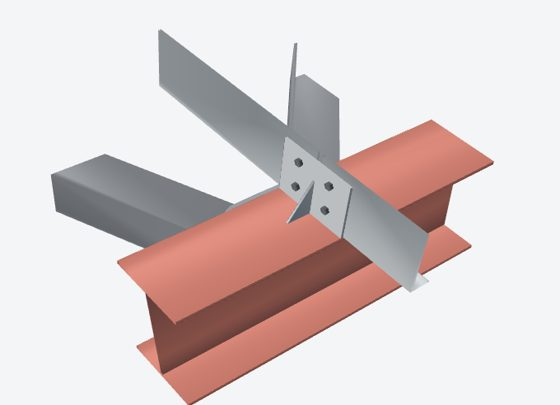
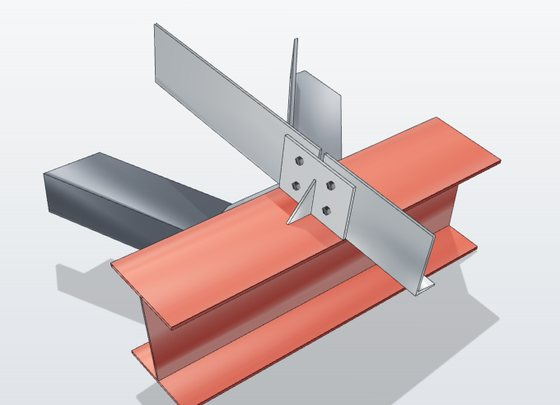
Connection explorer: steel finish, edge lines, shadows, new thumbnails

diff --git a/projects/steel-warehouse.html b/projects/steel-warehouse.html
@@ -38,7 +38,7 @@
 .conns{display:grid;grid-template-columns:repeat(auto-fill,minmax(200px,1fr));gap:12px;margin:12px 0 6px}
 .conn{display:flex;flex-direction:column;align-items:stretch;text-align:left;background:var(--card);border:1px solid var(--line);border-radius:8px;padding:8px 8px 10px;cursor:pointer;font:inherit;color:var(--ink);transition:border-color .15s,transform .15s}
 .conn:hover,.conn:focus-visible{border-color:var(--accent);transform:translateY(-2px)}
-.conn img{width:100%;height:auto;border-radius:5px;background:#f4f5f6}
+.conn img{width:100%;height:auto;border-radius:5px;background:#eceff2}
 .conn .ct{font-weight:600;font-size:.9rem;margin-top:8px}
 .conn .cd{font-size:.78rem;color:var(--ink-2)}
 .conn .cr{font:500 .74rem "IBM Plex Mono",monospace;color:var(--blue);margin-top:4px}
@@ -48,7 +48,7 @@
 .cv-head h3{margin:0;font-size:1.05rem}
 .cv-x{border:0;background:none;font-size:1.6rem;line-height:1;cursor:pointer;color:var(--ink-2)}
 .cv-body{display:grid;grid-template-columns:1.7fr 1fr;gap:0}
-.cv-stage{position:relative;aspect-ratio:4/3;background:#f4f5f6;touch-action:none}
+.cv-stage{position:relative;aspect-ratio:4/3;background:#eceff2;touch-action:none}
 .cv-stage canvas{position:absolute;inset:0;width:100%;height:100%;display:block;cursor:grab}
 .cv-msg{position:absolute;left:12px;bottom:10px;font:500 .76rem "IBM Plex Mono",monospace;color:#4a5866;background:rgba(255,255,255,.85);padding:4px 8px;border-radius:4px}
 .cv-info{padding:16px 18px;font-size:.88rem;overflow:auto}
@@ -126,16 +126,16 @@
       <ul><li>The shear lugs at the side columns now run across the frame, so they bear against the concrete in the direction of the 84 kN frame shear.</li><li>The splice end plates stand 10 mm proud of the flush flange, so the sloped flange is fully cut and welded to the plate.</li><li>The purlin cleats on the two gable frames have 4 bolts instead of 2. Two columns of bolts let the joint resist rotation on its own.</li><li>The pedestal ties continue down through the footing to just above the bottom mesh, holding the starter bars in place.</li></ul>
       <p class="hint">Select a connection to open it in 3D. Drag to rotate, scroll or pinch to zoom.</p>
       <div class="conns" id="conns">
-        <button type="button" class="conn" data-k="knee"><img src="img/conn/knee.jpg" alt="" width="560" height="405" loading="lazy"><span class="ct">Eave knee</span><span class="cd">Bolted end plate, 12 × M24</span><span class="cr">Max ratio 0.80</span></button>
-        <button type="button" class="conn" data-k="ridge"><img src="img/conn/ridge.jpg" alt="" width="560" height="405" loading="lazy"><span class="ct">Ridge and column cap</span><span class="cd">Extended end plates, 10 × M30</span><span class="cr">Max ratio 0.68</span></button>
-        <button type="button" class="conn" data-k="splice607"><img src="img/conn/splice607.jpg" alt="" width="560" height="405" loading="lazy"><span class="ct">Rafter splice at 6.07 m</span><span class="cd">Extended end plates, 8 × M24</span><span class="cr">Max ratio 0.36</span></button>
-        <button type="button" class="conn" data-k="splice1607"><img src="img/conn/splice1607.jpg" alt="" width="560" height="405" loading="lazy"><span class="ct">Rafter splice at 16.07 m</span><span class="cd">Extended end plates, 8 × M24</span><span class="cr">Max ratio 0.24</span></button>
-        <button type="button" class="conn" data-k="base_side"><img src="img/conn/base_side.jpg" alt="" width="560" height="405" loading="lazy"><span class="ct">Side column base</span><span class="cd">Shear lug across the frame</span><span class="cr">Max ratio 0.75</span></button>
-        <button type="button" class="conn" data-k="base_central"><img src="img/conn/base_central.jpg" alt="" width="560" height="405" loading="lazy"><span class="ct">Central column base</span><span class="cd">4 anchor rods, no uplift</span><span class="cr">Max ratio 0.10</span></button>
-        <button type="button" class="conn" data-k="base_gable"><img src="img/conn/base_gable.jpg" alt="" width="560" height="405" loading="lazy"><span class="ct">Gable column base</span><span class="cd">Shear on the anchor rods</span><span class="cr">Max ratio 0.65</span></button>
-        <button type="button" class="conn" data-k="purlin"><img src="img/conn/purlin.jpg" alt="" width="560" height="405" loading="lazy"><span class="ct">Purlin cleat, interior</span><span class="cd">Stiffened cleat, 2 × M16</span><span class="cr">Max ratio 0.41</span></button>
-        <button type="button" class="conn" data-k="purlin_gable"><img src="img/conn/purlin_gable.jpg" alt="" width="560" height="405" loading="lazy"><span class="ct">Purlin cleat, gable end</span><span class="cd">Stiffened cleat, 4 × M16</span><span class="cr">Max ratio 0.39</span></button>
-        <button type="button" class="conn" data-k="bracing"><img src="img/conn/bracing.jpg" alt="" width="560" height="405" loading="lazy"><span class="ct">Roof bracing</span><span class="cd">10 mm gusset, 2 × M20</span><span class="cr">Max ratio 0.10</span></button>
+        <button type="button" class="conn" data-k="knee"><img src="img/conn/knee.jpg?v=2" alt="" width="560" height="405" loading="lazy"><span class="ct">Eave knee</span><span class="cd">Bolted end plate, 12 × M24</span><span class="cr">Max ratio 0.80</span></button>
+        <button type="button" class="conn" data-k="ridge"><img src="img/conn/ridge.jpg?v=2" alt="" width="560" height="405" loading="lazy"><span class="ct">Ridge and column cap</span><span class="cd">Extended end plates, 10 × M30</span><span class="cr">Max ratio 0.68</span></button>
+        <button type="button" class="conn" data-k="splice607"><img src="img/conn/splice607.jpg?v=2" alt="" width="560" height="405" loading="lazy"><span class="ct">Rafter splice at 6.07 m</span><span class="cd">Extended end plates, 8 × M24</span><span class="cr">Max ratio 0.36</span></button>
+        <button type="button" class="conn" data-k="splice1607"><img src="img/conn/splice1607.jpg?v=2" alt="" width="560" height="405" loading="lazy"><span class="ct">Rafter splice at 16.07 m</span><span class="cd">Extended end plates, 8 × M24</span><span class="cr">Max ratio 0.24</span></button>
+        <button type="button" class="conn" data-k="base_side"><img src="img/conn/base_side.jpg?v=2" alt="" width="560" height="405" loading="lazy"><span class="ct">Side column base</span><span class="cd">Shear lug across the frame</span><span class="cr">Max ratio 0.75</span></button>
+        <button type="button" class="conn" data-k="base_central"><img src="img/conn/base_central.jpg?v=2" alt="" width="560" height="405" loading="lazy"><span class="ct">Central column base</span><span class="cd">4 anchor rods, no uplift</span><span class="cr">Max ratio 0.10</span></button>
+        <button type="button" class="conn" data-k="base_gable"><img src="img/conn/base_gable.jpg?v=2" alt="" width="560" height="405" loading="lazy"><span class="ct">Gable column base</span><span class="cd">Shear on the anchor rods</span><span class="cr">Max ratio 0.65</span></button>
+        <button type="button" class="conn" data-k="purlin"><img src="img/conn/purlin.jpg?v=2" alt="" width="560" height="405" loading="lazy"><span class="ct">Purlin cleat, interior</span><span class="cd">Stiffened cleat, 2 × M16</span><span class="cr">Max ratio 0.41</span></button>
+        <button type="button" class="conn" data-k="purlin_gable"><img src="img/conn/purlin_gable.jpg?v=2" alt="" width="560" height="405" loading="lazy"><span class="ct">Purlin cleat, gable end</span><span class="cd">Stiffened cleat, 4 × M16</span><span class="cr">Max ratio 0.39</span></button>
+        <button type="button" class="conn" data-k="bracing"><img src="img/conn/bracing.jpg?v=2" alt="" width="560" height="405" loading="lazy"><span class="ct">Roof bracing</span><span class="cd">10 mm gusset, 2 × M20</span><span class="cr">Max ratio 0.10</span></button>
       </div>
       <dialog class="cview" id="cview" aria-labelledby="cv-title">
         <div class="cv-head"><h3 id="cv-title"></h3><button type="button" class="cv-x" id="cv-close" aria-label="Close">×</button></div>
@@ -238,12 +238,25 @@ let T=null,R,S,cam,ctl,cur,idx=0,raf=0;
 async function init(){if(T)return;
   const THREE=await import('three');const {OrbitControls}=await import('three/addons/controls/OrbitControls.js');
   const {GLTFLoader}=await import('three/addons/loaders/GLTFLoader.js');const {MeshoptDecoder}=await import('three/addons/libs/meshopt_decoder.module.js');
-  T={THREE,GLTFLoader,MeshoptDecoder};
-  R=new THREE.WebGLRenderer({antialias:true});R.setPixelRatio(Math.min(devicePixelRatio,2));R.outputColorSpace=THREE.SRGBColorSpace;stage.prepend(R.domElement);
-  S=new THREE.Scene();S.background=new THREE.Color(0xf4f5f6);S.add(new THREE.HemisphereLight(0xffffff,0x8899aa,1.5));
-  const d=new THREE.DirectionalLight(0xffffff,1.7);d.position.set(-3,6,4);S.add(d);const d2=new THREE.DirectionalLight(0xffffff,.6);d2.position.set(4,2,-3);S.add(d2);
-  cam=new THREE.PerspectiveCamera(30,1,0.01,100);ctl=new OrbitControls(cam,R.domElement);ctl.enableDamping=true;ctl.dampingFactor=.08;
+  const {RoomEnvironment}=await import('three/addons/environments/RoomEnvironment.js');
+  R=new THREE.WebGLRenderer({antialias:true});R.setPixelRatio(Math.min(devicePixelRatio,2));R.outputColorSpace=THREE.SRGBColorSpace;
+  R.toneMapping=THREE.ACESFilmicToneMapping;R.shadowMap.enabled=true;R.shadowMap.type=THREE.PCFSoftShadowMap;stage.prepend(R.domElement);
+  S=new THREE.Scene();
+  const bg=document.createElement('canvas');bg.width=2;bg.height=256;const bx=bg.getContext('2d'),gr=bx.createLinearGradient(0,0,0,256);gr.addColorStop(0,'#f7f8f9');gr.addColorStop(1,'#dfe3e7');bx.fillStyle=gr;bx.fillRect(0,0,2,256);
+  const bt=new THREE.CanvasTexture(bg);bt.colorSpace=THREE.SRGBColorSpace;S.background=bt;
+  S.environment=new THREE.PMREMGenerator(R).fromScene(new RoomEnvironment(),0.04).texture;
+  const key=new THREE.DirectionalLight(0xffffff,2.2);key.castShadow=true;key.shadow.mapSize.set(2048,2048);key.shadow.radius=6;key.shadow.bias=-0.0005;S.add(key,key.target);
+  S.add(new THREE.HemisphereLight(0xffffff,0xb0b8c0,0.35));
+  const ground=new THREE.Mesh(new THREE.PlaneGeometry(1,1),new THREE.ShadowMaterial({opacity:0.18}));ground.rotation.x=-Math.PI/2;ground.receiveShadow=true;S.add(ground);
+  cam=new THREE.PerspectiveCamera(30,1,0.01,100);ctl=new OrbitControls(cam,R.domElement);ctl.enableDamping=true;ctl.dampingFactor=.08;ctl.autoRotateSpeed=1.2;
+  ctl.addEventListener('start',()=>{ctl.autoRotate=false;});
+  T={THREE,GLTFLoader,MeshoptDecoder,key,ground};
   new ResizeObserver(size).observe(stage);}
+const STY={frame:{c:0xa63a2b,m:.35,r:.45},plate:{c:0xc9552f,m:.35,r:.45},purlin:{c:0xb9c1c7,m:.75,r:.35},cleat:{c:0xc9ced2,m:.7,r:.38},bracing:{c:0x5a6068,m:.6,r:.45},gusset:{c:0x7b828a,m:.6,r:.45},bolt:{c:0x3a3d42,m:.85,r:.3},concrete:{c:0xcfcac0,m:0,r:.95,o:.28},rebar:{c:0x8b5634,m:.5,r:.6}};
+function dress(THREE,root){root.traverse(o=>{if(!o.isMesh)return;let n=o;while(n&&!STY[n.name])n=n.parent;const st=STY[n?n.name:'plate'];
+  o.material=new THREE.MeshStandardMaterial({color:st.c,metalness:st.m,roughness:st.r,envMapIntensity:.9,side:THREE.DoubleSide,transparent:!!st.o,opacity:st.o||1,depthWrite:!st.o,polygonOffset:true,polygonOffsetFactor:1,polygonOffsetUnits:1});
+  o.castShadow=!st.o;o.receiveShadow=!st.o;
+  if(n&&n.name!=='rebar'&&n.name!=='bolt')o.add(new THREE.LineSegments(new THREE.EdgesGeometry(o.geometry,28),new THREE.LineBasicMaterial({color:st.o?0x9a958c:0x1c2329,transparent:true,opacity:st.o?.5:.55})));});}
 function size(){const w=stage.clientWidth,h=stage.clientHeight;if(!w)return;R.setSize(w,h,false);cam.aspect=w/h;cam.updateProjectionMatrix();}
 const DIR={knee:[1.2,.5,-1.4],ridge:[.6,.5,-1.4],splice607:[.8,.4,-1.4],splice1607:[.8,.4,-1.4],base_side:[1.2,.8,-1.4],base_central:[1,.8,-1.4],base_gable:[1,.8,1.4],purlin:[1,.9,-1.2],purlin_gable:[1,.9,1.2],bracing:[.8,1.4,-1]};
 async function show(i){idx=(i+ORDER.length)%ORDER.length;const k=ORDER[idx],c=C[k];
@@ -252,9 +265,11 @@ async function show(i){idx=(i+ORDER.length)%ORDER.length;const k=ORDER[idx],c=C[
   msg.textContent='Loading…';msg.hidden=false;
   try{await init();size();const {THREE,GLTFLoader,MeshoptDecoder}=T;
     const g=await new GLTFLoader().setMeshoptDecoder(MeshoptDecoder).loadAsync('model/conn/'+k+'.glb?v=1');
-    if(ORDER[idx]!==k)return;if(cur)S.remove(cur);cur=g.scene;S.add(cur);
+    if(ORDER[idx]!==k)return;if(cur)S.remove(cur);cur=g.scene;dress(THREE,cur);S.add(cur);
     const b=new THREE.Box3().setFromObject(cur),ce=b.getCenter(new THREE.Vector3()),sz=b.getSize(new THREE.Vector3()).length();
-    const v=new THREE.Vector3(...DIR[k]).normalize();cam.position.copy(ce).addScaledVector(v,sz*1.5);ctl.target.copy(ce);ctl.update();
+    const {key,ground}=T;ground.position.set(ce.x,b.min.y-.002,ce.z);ground.scale.set(sz*4,sz*4,1);
+    key.position.set(ce.x-sz*.6,ce.y+sz*1.6,ce.z+sz*.9);key.target.position.copy(ce);const sc=key.shadow.camera;sc.left=sc.bottom=-sz;sc.right=sc.top=sz;sc.near=.01;sc.far=sz*5;sc.updateProjectionMatrix();
+    const v=new THREE.Vector3(...DIR[k]).normalize();cam.position.copy(ce).addScaledVector(v,sz*1.5);ctl.target.copy(ce);ctl.autoRotate=true;ctl.update();
     msg.textContent='Drag to rotate · scroll to zoom';
     if(!raf)(function loop(){raf=requestAnimationFrame(loop);ctl.update();R.render(S,cam);})();
   }catch(e){msg.textContent='The 3D view could not load in this browser.';console.error(e);}}
